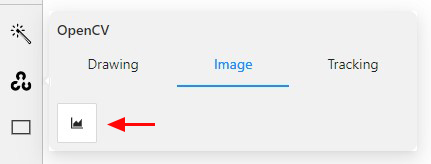
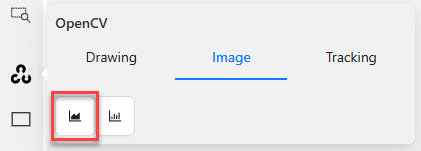
Add CLAHE to opencv image processing tab

diff --git a/cvat-ui/src/components/annotation-page/standard-workspace/controls-side-bar/opencv-control.tsx b/cvat-ui/src/components/annotation-page/standard-workspace/controls-side-bar/opencv-control.tsx
@@ -7,10 +7,11 @@ import React from 'react';
 import { connect } from 'react-redux';
 import { Row, Col } from 'antd/lib/grid';
 import Popover from 'antd/lib/popover';
-import Icon, { AreaChartOutlined, ScissorOutlined } from '@ant-design/icons';
+import Icon, { AreaChartOutlined, BarChartOutlined, ScissorOutlined } from '@ant-design/icons';
 import Text from 'antd/lib/typography/Text';
 import Tabs from 'antd/lib/tabs';
 import Button from 'antd/lib/button';
+import InputNumber from 'antd/lib/input-number';
 import Progress from 'antd/lib/progress';
 import Select from 'antd/lib/select';
 import notification from 'antd/lib/notification';
@@ -84,6 +85,9 @@ interface State {
     activeTracker: OpenCVTracker | null;
     trackers: OpenCVTracker[];
     lastTrackedFrame: number | null;
+    claheClipLimit: number;
+    claheTileColumns: number;
+    claheTileRows: number;
 }
 
 const core = getCore();
@@ -156,6 +160,9 @@ class OpenCVControlComponent extends React.PureComponent<Props & DispatchToProps
             trackers: openCVWrapper.isInitialized ? Object.values(openCVWrapper.tracking) : [],
             activeTracker: openCVWrapper.isInitialized ? Object.values(openCVWrapper.tracking)[0] : null,
             lastTrackedFrame: null,
+            claheClipLimit: 40,
+            claheTileColumns: 8,
+            claheTileRows: 8,
         };
     }
 
@@ -581,6 +588,8 @@ class OpenCVControlComponent extends React.PureComponent<Props & DispatchToProps
 
     private renderImageContent():JSX.Element {
         const { enableImageFilter, disableImageFilter, filters } = this.props;
+        const { claheClipLimit, claheTileColumns, claheTileRows } = this.state;
+
         return (
             <Row justify='start'>
                 <Col>
@@ -606,6 +615,118 @@ class OpenCVControlComponent extends React.PureComponent<Props & DispatchToProps
                             <AreaChartOutlined />
                         </Button>
                     </CVATTooltip>
+                </Col>
+                <Col>
+                    <CVATTooltip title='Contrast Limited Adaptive Histogram Equalization' className='cvat-opencv-image-tool'>
+                        <Button
+                            className={
+                                hasFilter(filters, ImageFilterAlias.CLAHE) ?
+                                    'cvat-opencv-clahe-tool-button cvat-opencv-image-tool-active' : 'cvat-opencv-clahe-tool-button'
+                            }
+                            onClick={(e: React.MouseEvent<HTMLElement>) => {
+                                if (!hasFilter(filters, ImageFilterAlias.CLAHE)) {
+                                    enableImageFilter({
+                                        modifier: openCVWrapper.imgproc.clahe(),
+                                        alias: ImageFilterAlias.CLAHE,
+                                    },
+                                    {
+                                        clipLimit: claheClipLimit,
+                                        tileGridSize: {
+                                            columns: claheTileColumns,
+                                            rows: claheTileRows,
+                                        },
+                                    });
+                                } else {
+                                    const button = e.target as HTMLElement;
+                                    button.blur();
+                                    disableImageFilter(ImageFilterAlias.CLAHE);
+                                }
+                            }}
+                        >
+                            <BarChartOutlined />
+                        </Button>
+                    </CVATTooltip>
+
+                    {hasFilter(filters, ImageFilterAlias.CLAHE) && (
+                        <div>
+                            <Row align='middle' gutter={8}>
+                                <Col span={12}>Clip Limit:</Col>
+                                <Col span={12}>
+                                    <InputNumber
+                                        min={1}
+                                        max={255}
+                                        step={1}
+                                        value={claheClipLimit}
+                                        onChange={(value) => {
+                                            this.setState({
+                                                claheClipLimit: value || 40,
+                                            });
+                                            enableImageFilter({
+                                                modifier: openCVWrapper.imgproc.clahe(),
+                                                alias: ImageFilterAlias.CLAHE,
+                                            }, {
+                                                clipLimit: value || 40,
+                                                tileGridSize: {
+                                                    columns: claheTileColumns,
+                                                    rows: claheTileRows,
+                                                },
+                                            });
+                                        }}
+                                    />
+                                </Col>
+                            </Row>
+                            <Row align='middle' gutter={8}>
+                                <Col span={12}>Tile Width:</Col>
+                                <Col span={12}>
+                                    <InputNumber
+                                        min={1}
+                                        max={128}
+                                        value={claheTileColumns}
+                                        onChange={(value) => {
+                                            this.setState({
+                                                claheTileColumns: value || 8,
+                                            });
+                                            enableImageFilter({
+                                                modifier: openCVWrapper.imgproc.clahe(),
+                                                alias: ImageFilterAlias.CLAHE,
+                                            }, {
+                                                clipLimit: claheClipLimit,
+                                                tileGridSize: {
+                                                    columns: value || 8,
+                                                    rows: claheTileRows,
+                                                },
+                                            });
+                                        }}
+                                    />
+                                </Col>
+                            </Row>
+                            <Row align='middle' gutter={8}>
+                                <Col span={12}>Tile Height:</Col>
+                                <Col span={12}>
+                                    <InputNumber
+                                        min={1}
+                                        max={128}
+                                        value={claheTileRows}
+                                        onChange={(value) => {
+                                            this.setState({
+                                                claheTileRows: value || 8,
+                                            });
+                                            enableImageFilter({
+                                                modifier: openCVWrapper.imgproc.clahe(),
+                                                alias: ImageFilterAlias.CLAHE,
+                                            }, {
+                                                clipLimit: claheClipLimit,
+                                                tileGridSize: {
+                                                    columns: claheTileColumns,
+                                                    rows: value || 8,
+                                                },
+                                            });
+                                        }}
+                                    />
+                                </Col>
+                            </Row>
+                        </div>
+                    )}
                 </Col>
             </Row>
         );

diff --git a/cvat-ui/src/utils/opencv-wrapper/clahe.ts b/cvat-ui/src/utils/opencv-wrapper/clahe.ts
@@ -1,0 +1,81 @@
+// Copyright (C) 2021-2022 Intel Corporation
+// Copyright (C) 2023 CVAT.ai Corporation
+//
+// SPDX-License-Identifier: MIT
+
+import { BaseImageFilter, ImageProcessing } from 'utils/image-processing';
+
+export interface CLAHE extends ImageProcessing {
+    processImage: (src: ImageData, frameNumber: number) => ImageData;
+}
+
+export default class CLAHEImplementation extends BaseImageFilter {
+    private cv:any;
+    // same defaults as opencv
+    private clipLimit: number = 40.0;
+    private tileGridSize: { rows: number, columns: number } = { rows: 8, columns: 8 };
+
+    constructor(cv:any) {
+        super();
+        this.cv = cv;
+    }
+
+    public configure(options: {
+        clipLimit?: number,
+        tileGridSize?: { width: number, height: number }
+    }): void {
+        if (options.clipLimit !== undefined) {
+            this.clipLimit = options.clipLimit;
+        }
+        if (options.tileGridSize !== undefined) {
+            this.tileGridSize = options.tileGridSize;
+        }
+    }
+
+    public processImage(src:ImageData, frameNumber: number) : ImageData {
+        const { cv } = this;
+        let matImage = null;
+        const RGBImage = new cv.Mat();
+        const YUVImage = new cv.Mat();
+        const RGBDist = new cv.Mat();
+        const YUVDist = new cv.Mat();
+        const RGBADist = new cv.Mat();
+        let channels = new cv.MatVector();
+        const equalizedY = new cv.Mat();
+        const tileGridSize = new cv.Size(this.tileGridSize.rows, this.tileGridSize.columns);
+        const clahe = new cv.CLAHE(this.clipLimit, tileGridSize);
+        try {
+            this.currentProcessedImage = frameNumber;
+            matImage = cv.matFromImageData(src);
+            cv.cvtColor(matImage, RGBImage, cv.COLOR_RGBA2RGB, 0);
+            cv.cvtColor(RGBImage, YUVImage, cv.COLOR_RGB2YUV, 0);
+            cv.split(YUVImage, channels);
+            const [Y, U, V] = [channels.get(0), channels.get(1), channels.get(2)];
+            channels.delete();
+            channels = null;
+            clahe.apply(Y, equalizedY);
+            clahe.delete();
+            Y.delete();
+            channels = new cv.MatVector();
+            channels.push_back(equalizedY); equalizedY.delete();
+            channels.push_back(U); U.delete();
+            channels.push_back(V); V.delete();
+            cv.merge(channels, YUVDist);
+            cv.cvtColor(YUVDist, RGBDist, cv.COLOR_YUV2RGB, 0);
+            cv.cvtColor(RGBDist, RGBADist, cv.COLOR_RGB2RGBA, 0);
+            const arr = new Uint8ClampedArray(RGBADist.data, RGBADist.cols, RGBADist.rows);
+            const imgData = new ImageData(arr, src.width, src.height);
+            return imgData;
+        } catch (e) {
+            throw new Error(e.toString());
+        } finally {
+            if (matImage) matImage.delete();
+            if (channels) channels.delete();
+            RGBImage.delete();
+            YUVImage.delete();
+            RGBDist.delete();
+            YUVDist.delete();
+            RGBADist.delete();
+        }
+    }
+}

diff --git a/cvat-ui/src/utils/opencv-wrapper/opencv-wrapper.ts b/cvat-ui/src/utils/opencv-wrapper/opencv-wrapper.ts
@@ -6,6 +6,7 @@
 import { ObjectState, ShapeType, getCore } from 'cvat-core-wrapper';
 import waitFor from 'utils/wait-for';
 import config from 'config';
+import CLAHEImplementation, { CLAHE } from './clahe';
 import HistogramEqualizationImplementation, { HistogramEqualization } from './histogram-equalization';
 import TrackerMImplementation from './tracker-mil';
 import IntelligentScissorsImplementation, { IntelligentScissors } from './intelligent-scissors';
@@ -33,6 +34,7 @@ export interface Contours {
 
 export interface ImgProc {
     hist: () => HistogramEqualization;
+    clahe: () => CLAHE;
 }
 
 export interface Tracking {
@@ -299,6 +301,7 @@ export class OpenCVWrapper {
         this.checkInitialization();
         return {
             hist: () => new HistogramEqualizationImplementation(this.cv),
+            clahe: () => new CLAHEImplementation(this.cv),
         };
     }
 

diff --git a/cvat-ui/src/utils/image-processing.tsx b/cvat-ui/src/utils/image-processing.tsx
@@ -32,6 +32,7 @@ export interface ImageFilter {
 
 export enum ImageFilterAlias {
     HISTOGRAM_EQUALIZATION = 'opencv.histogramEqualizaton',
+    CLAHE = 'opencv.CLAHE',
     GAMMA_CORRECTION = 'fabric.gammaCorrection',
 }
 

diff --git a/site/content/en/docs/manual/advanced/ai-tools.md b/site/content/en/docs/manual/advanced/ai-tools.md
@@ -31,7 +31,9 @@ See:
   - [OpenCV: annotate with trackers](#opencv-annotate-with-trackers)
   - [When tracking](#when-tracking)
   - [Trackers models](#trackers-models)
-- [OpenCV: histogram equalization](#opencv-histogram-equalization)
+- [OpenCV](#opencv)
+  - [Histogram Equalization](#opencv-histogram-equalization)
+  - [Contrast Limited Adaptive Histogram Equalization](#opencv-clahe)
 
 ## Interactors
 
@@ -280,7 +282,8 @@ All annotated objects will be automatically tracked when you move to the next fr
 
 <!--lint enable maximum-line-length-->
 
-## OpenCV: histogram equalization
+## OpenCV
+### Histogram Equalization
 
 **Histogram equalization** improves
 the contrast by stretching the intensity range.
@@ -306,3 +309,15 @@ Example of the result:
 ![](/images/image222.jpg)
 
 To disable **Histogram equalization**, click on the button again.
+
+### Contrast Limited Adaptive Histogram Equalization
+Contrast Limited Adaptive Histogram Equalization (CLAHE) increases contrast by applying clipped histogram equalization to multiple tiles across the input image. In images where there are both very bright and very dark regions, this improves contrast in the dark regions without loosing contrast in the bright ones.
+
+#### Parameters
+* Clip Limit: Maximum value a pixel can be adjusted. Higher values allow for noise to be over-amplified.
+* Tile Rows: How many rows of tiles to break the image into.
+* Tile Columns: How many columns of tiles to break the image into.
+
+
+User Interface
+![](/images/opencv-image-clahe_interaction.jpg)
